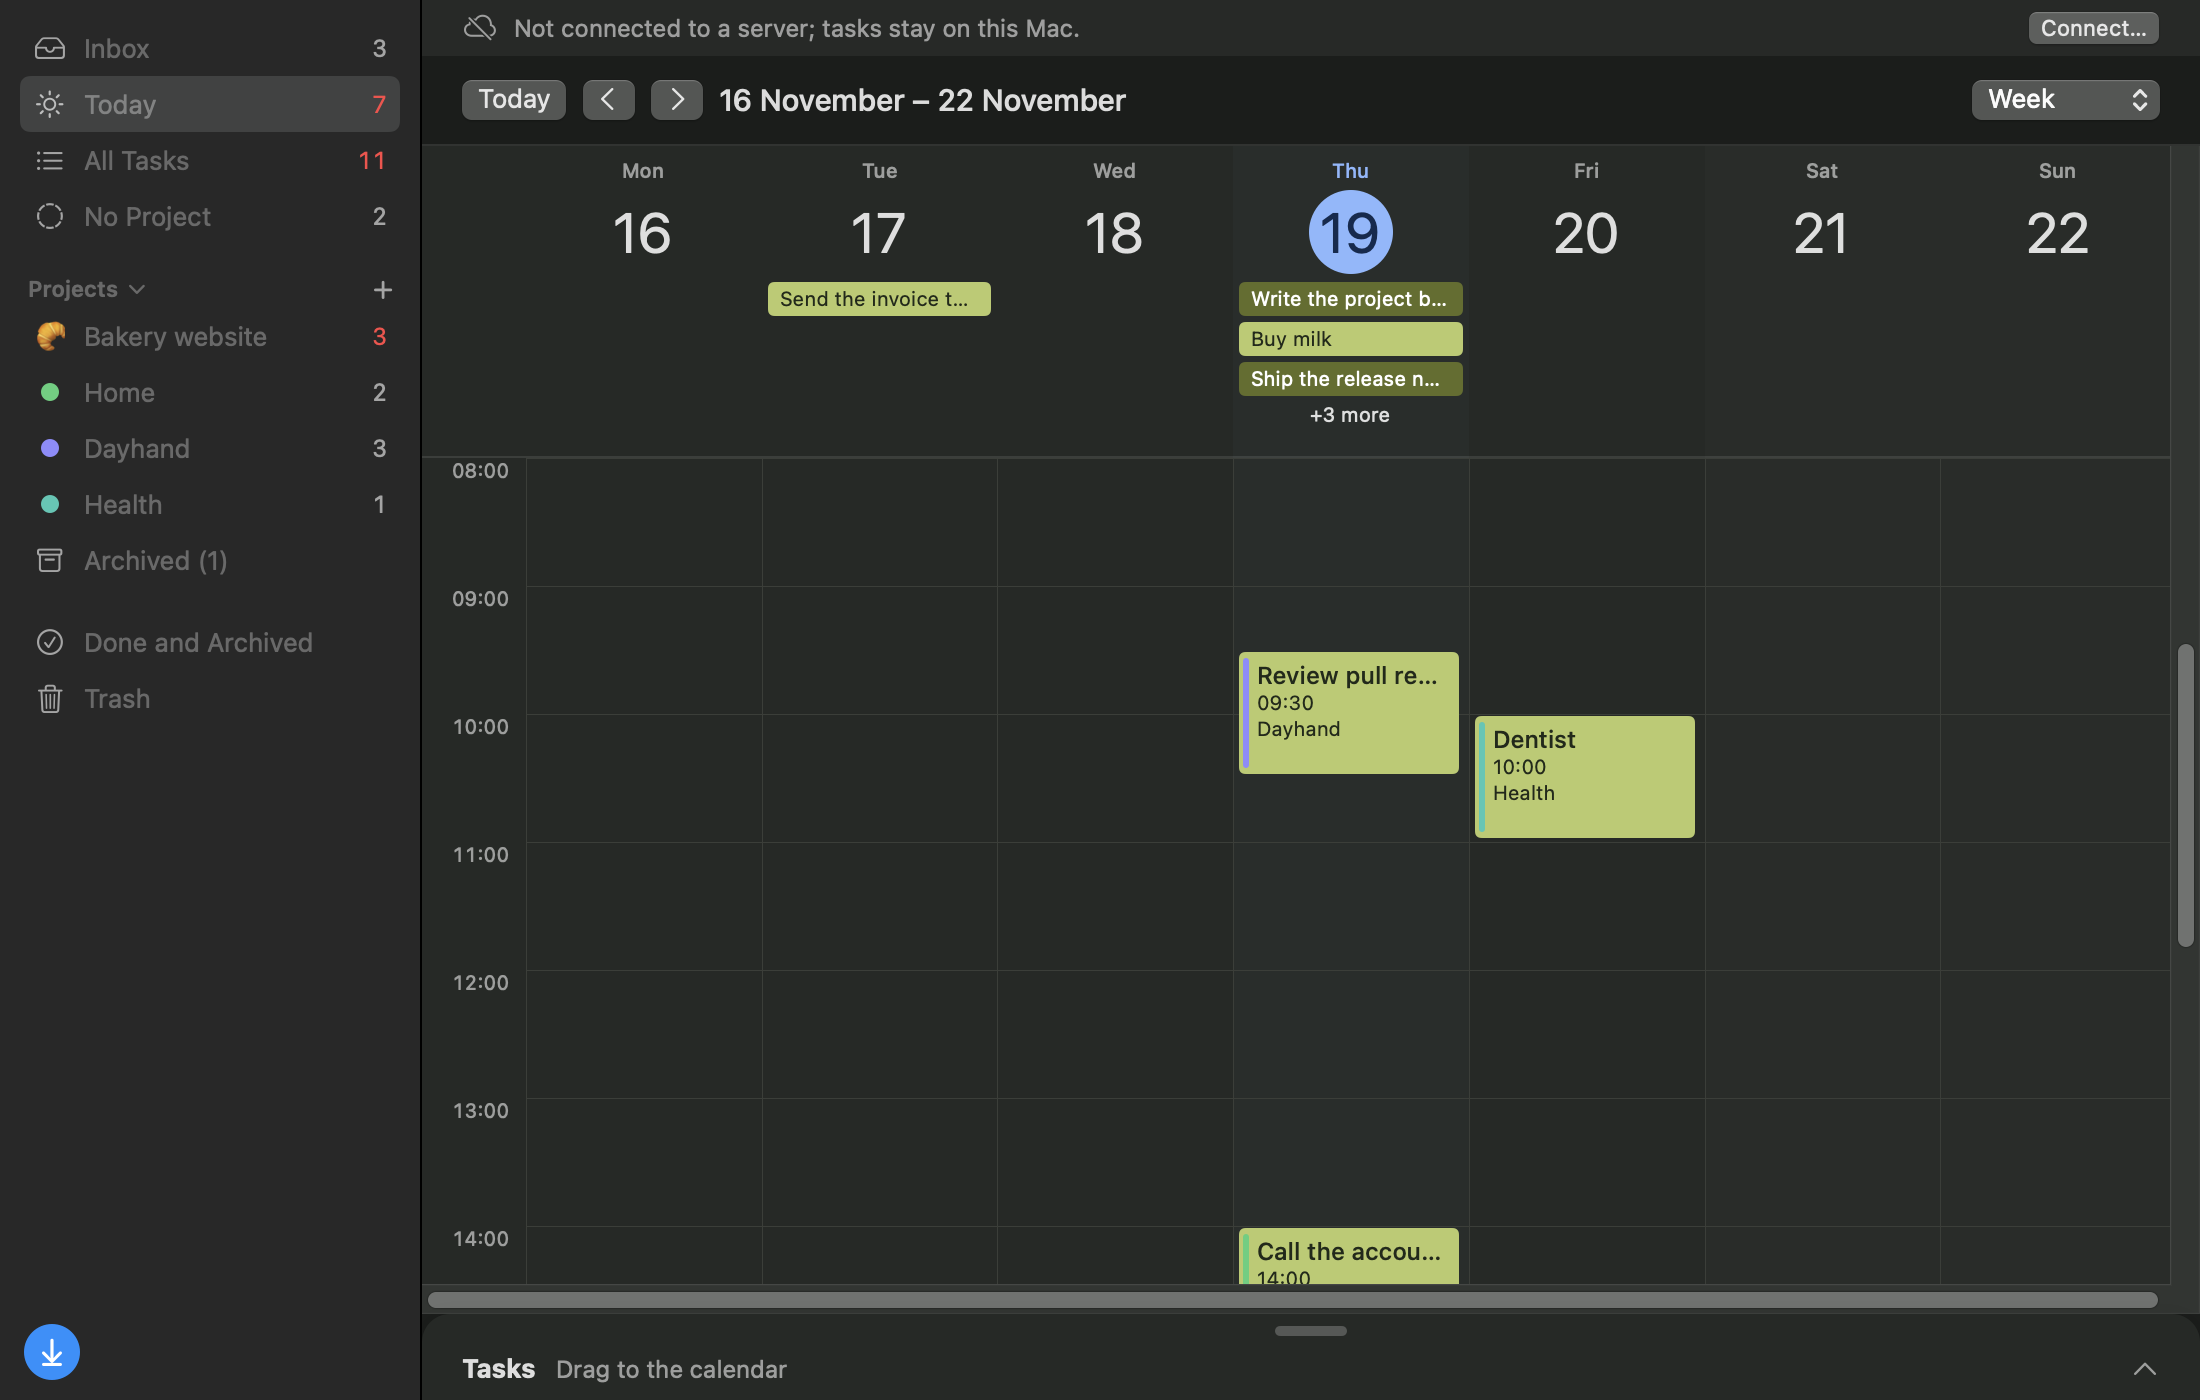
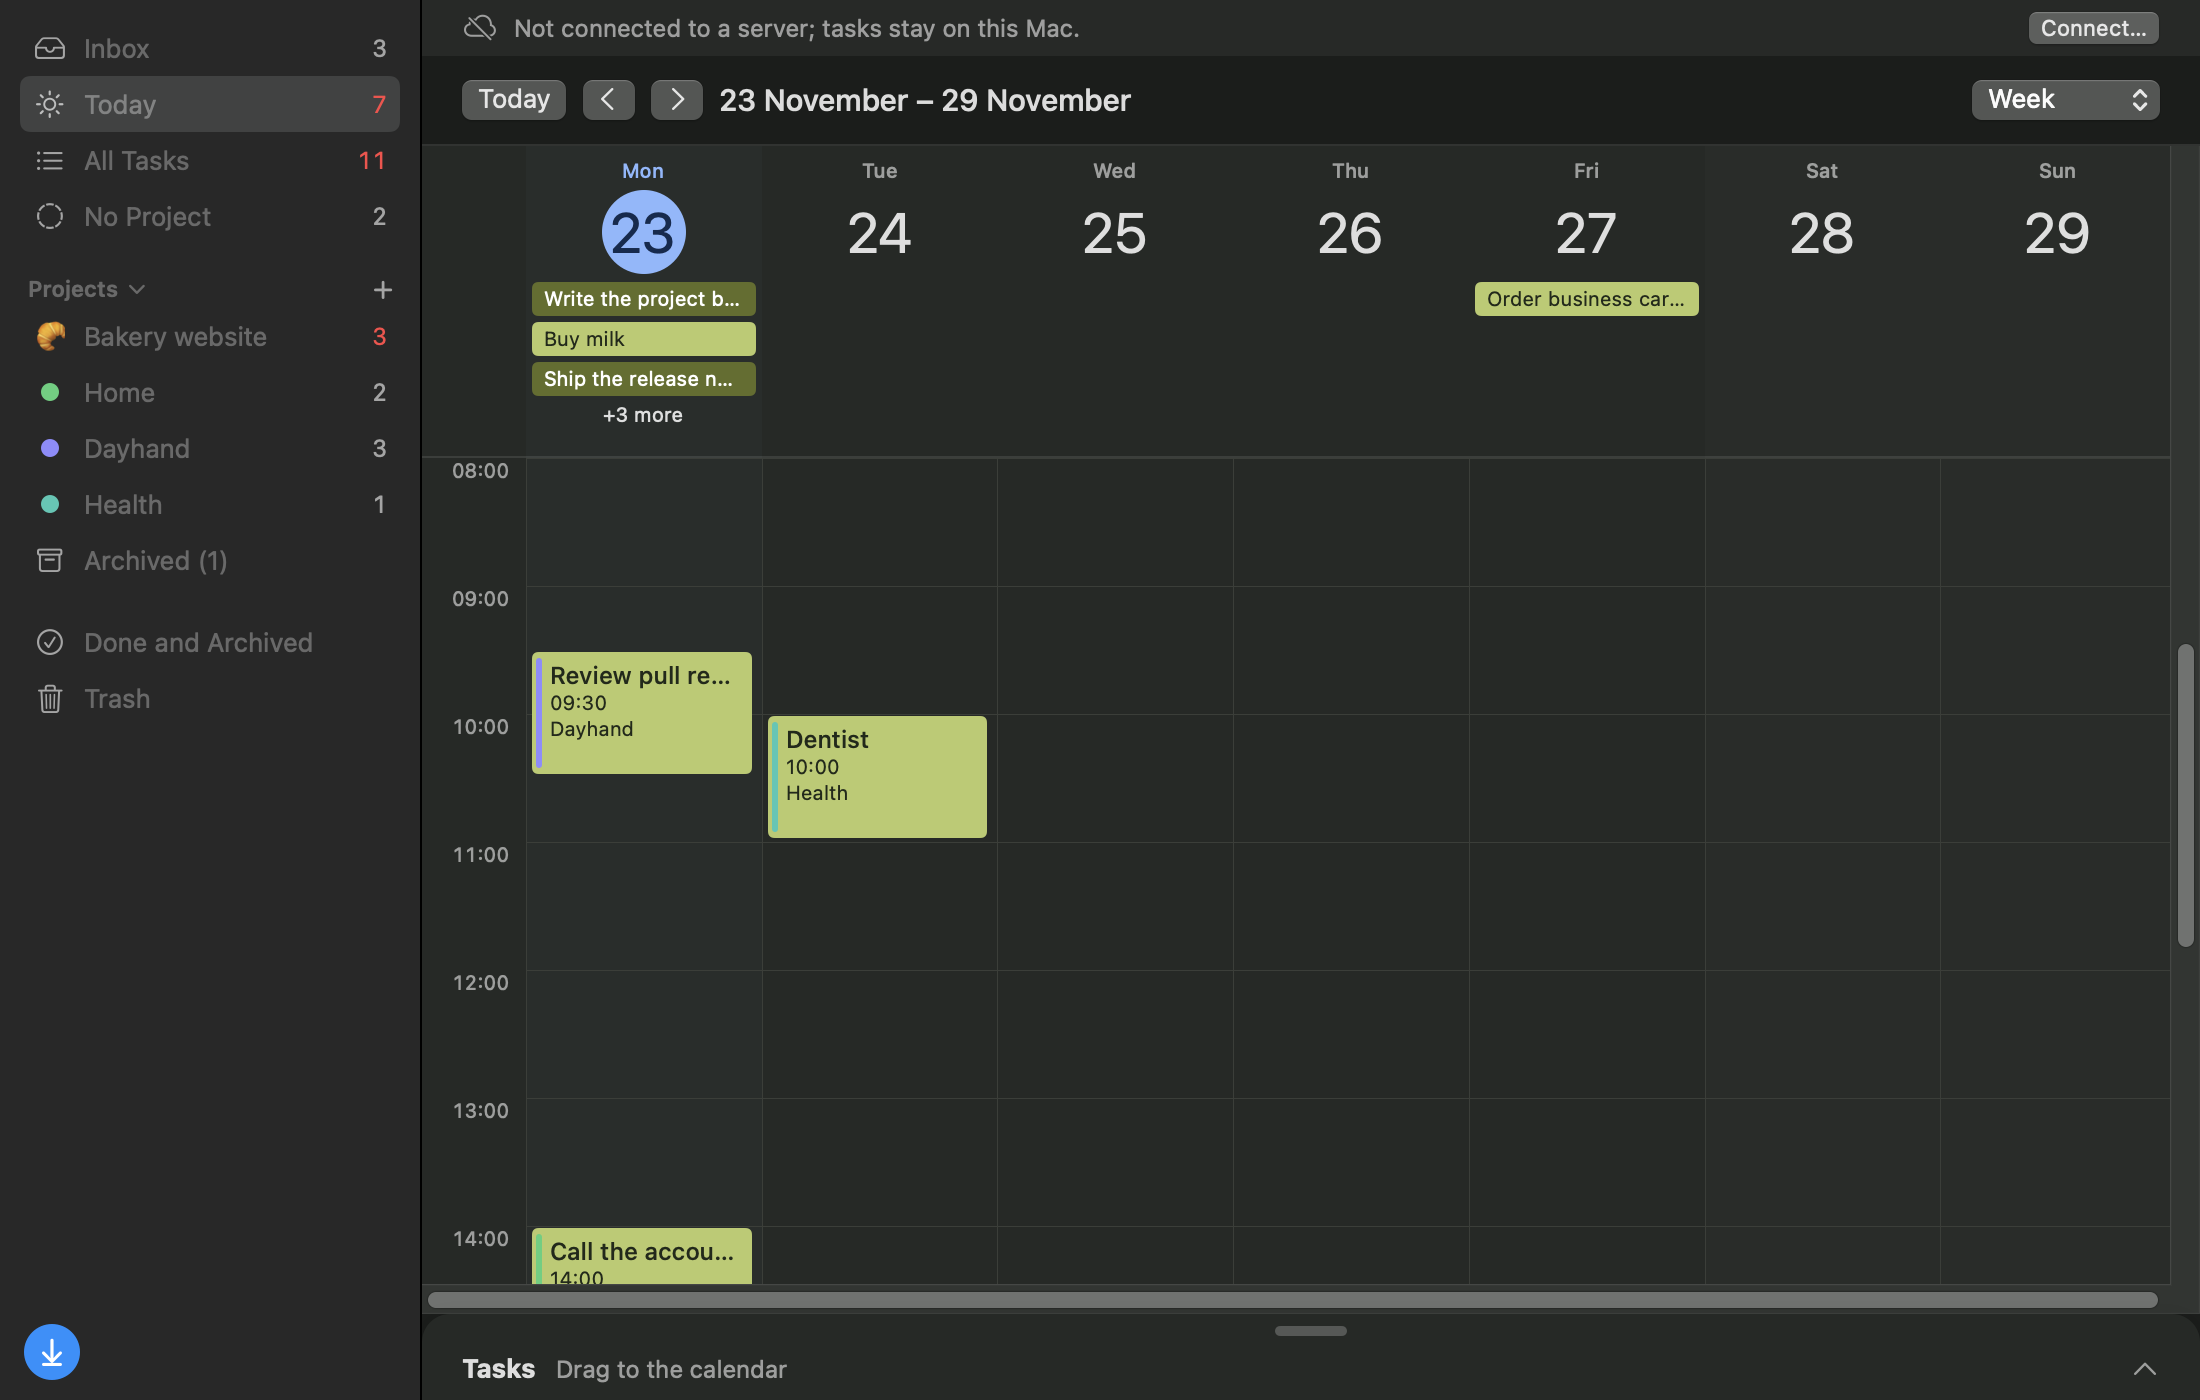
docs: show the macOS plan from today in the README and site screenshots
The Plan now shows seven days from today, so the README and dayhand.dev screenshots of it are drawn again with DayhandSnapshots on its sample plan, and their alt texts describe 23 to 29 November with today in the first column.

diff --git a/README.md b/README.md
@@ -91,7 +91,7 @@ Dayhand for macOS, Today as an agenda with To plan beside it, then the same day 
 
 <p align="center">
   <img src="docs/assets/macos-today.webp" width="700" alt="Dayhand for macOS, Today as an agenda: projects in the sidebar, the Search, or add a task field, a strip of the next days, one sentence about the day with counts and the plan health, quick add, the task you are working on now and today's tasks by time, and To plan beside it with the overdue task, tasks without a day and the next days">
-  <img src="docs/assets/macos-week-plan.webp" width="700" alt="Dayhand for macOS, week plan: tasks placed on a calendar from Monday to Sunday, and below it the tasks to drag onto it in to do, in progress and done columns">
+  <img src="docs/assets/macos-week-plan.webp" width="700" alt="Dayhand for macOS, week plan: tasks placed on a calendar of seven days starting today, today in the first column, and below it the folded Tasks drawer to drag tasks onto it">
 </p>
 
 ## On the phone
